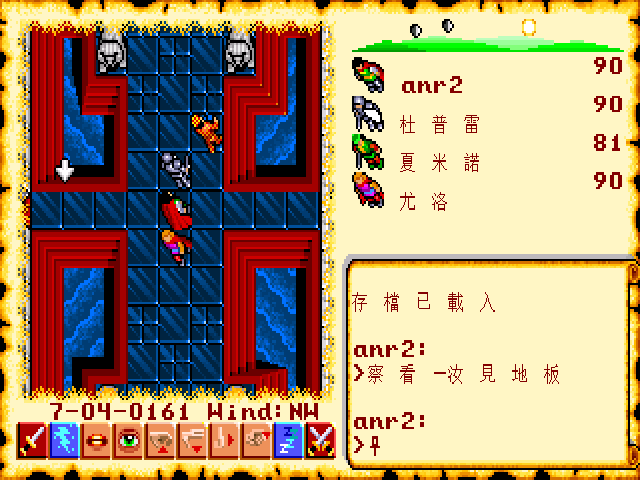
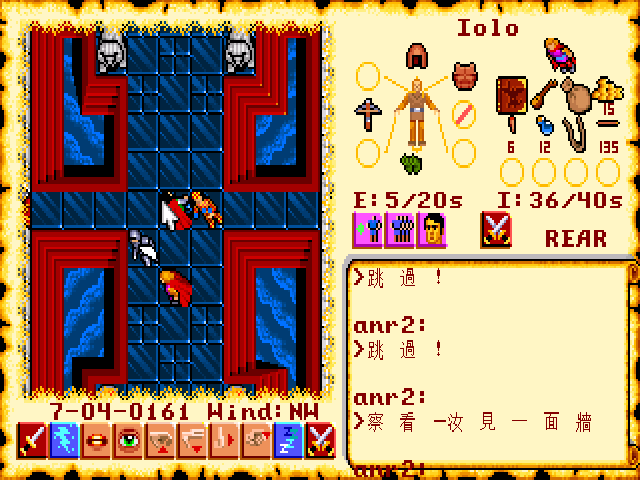
README group C: 修圖文對位 (Look 三張 md5 重複, user finding 同類)
之前 group C 三張 Look 全用 look_floor.png (md5 一樣)，caption
也未對應內容；同 group D 圖文不對位問題。

重抓 throne room 多點 click 觸發不同 Look:
- 01 (unchanged) ← 「察看-汝見地板」CHT-LOOK ground: the floor
- 02 ← 「察看-汝見一面牆」CHT-LOOK ground: a wall (帶 Iolo
  portrait 干擾，但 wall look 文字清楚)
- 03 ← Iolo doll gump (裝備 / inventory) + 跳過! combat fragment;
  caption 從「Look NPC」改成「Portrait Gump + 戰鬥訊息」反映實際

每張 stderr 註明 CHT-LOOK 對應字串 — debug trace 跟畫面 1:1。

diff --git a/README.md b/README.md
@@ -395,13 +395,12 @@ Origin 認真為魔像族設計了一套可組合的語言：
 | ![quiz](docs/screenshots/07_lb_quiz_correct.png) |
 | *Copy Protection 題目保留英文原文，附答案提示；LB 問候文字已中文化* |
 
-### 群組 C：Look 命令系統
+### 群組 C：Look 命令系統 + Portrait Gump
 
-| Look 地板 | Look 牆 | Look NPC |
+| Look 地板 | Look 牆 | Portrait Gump + 戰鬥訊息 |
 |---|---|---|
-| ![floor](docs/screenshots/01_look_floor.png) | ![wall](docs/screenshots/02_look_wall.png) | ![npc](docs/screenshots/03_look_carpet.png) |
-| *v2.0「察看 - 汝見地板」16×16 native* | *同上路徑、v2.0 字體質感* | *同 — Look ground 走 events.cpp lookAtCursor* |
-| *(三張統一示範 v2.0 16×16 字型；不同 ground tile 觸發 fragment 不同字串)* | | |
+| ![floor](docs/screenshots/01_look_floor.png) | ![wall](docs/screenshots/02_look_wall.png) | ![doll](docs/screenshots/03_look_carpet.png) |
+| *v2.0「**察看 - 汝見地板**」16×16 native；stderr: `CHT-LOOK ground: the floor`* | *v2.0「**察看 - 汝見一面牆**」16×16；stderr: `CHT-LOOK ground: a wall`* | *Iolo doll gump（裝備 / inventory）+「**跳過！**」combat fragment 中文化（戰鬥跳過回合）* |
 
 ### 群組 D：開場 Cinematic
 
